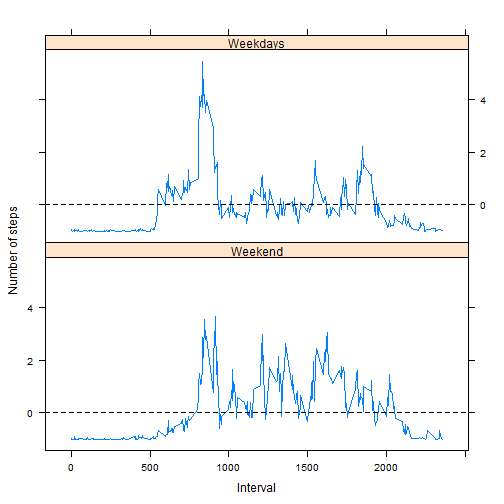
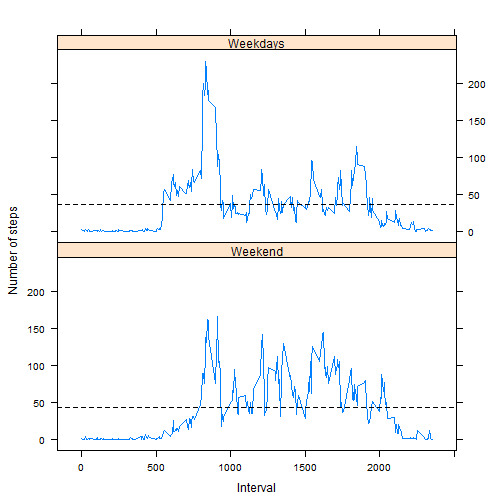
v1.1

diff --git a/PA1_template.html b/PA1_template.html
@@ -351,7 +351,7 @@ hist(x=steps.per.day.completed,
 
 <h2>Are there differences in activity patterns between weekdays and weekends?</h2>
 
-<p>Here we prepare a new &ldquo;steps per interval&rdquo; variable by adding weekend/weekday values to the series. <strong>Data are normalised against the average of the weekend/weekday values.</strong></p>
+<p>Here we prepare a new &ldquo;steps per interval&rdquo; variable by adding weekend/weekday values to the series. </p>
 
 <pre><code class="r">day &lt;- weekdays(strptime(data.completed$date, &quot;%Y-%m-%d&quot;))
 data.completed$weekday &lt;- factor(!(day %in% c(&quot;Saturday&quot;, &quot;Sunday&quot;)))
@@ -361,11 +361,11 @@ steps.per.interval&lt;-tapply(data.completed$steps,
                            list(data.completed$interval,data.completed$weekday),
                            FUN=mean)
 
-# normalisation of data
-steps.per.interval&lt;-(steps.per.interval-colMeans(steps.per.interval))/colMeans(steps.per.interval)
+# normalisation of data // this is a variant to display against the average but i find the result less straightforward
+# steps.per.interval&lt;-(steps.per.interval-colMeans(steps.per.interval))/colMeans(steps.per.interval)
 </code></pre>
 
-<p>Now, we draw the plot using the lattice plotting system. Dotted lines are drawn at 0 which corresponds to the mean value of each series.</p>
+<p>Now, we draw the plot using the lattice plotting system. Dotted lines correspond to the mean value of each series.</p>
 
 <pre><code class="r"># prepare the tmp variable for xyplot display
 tmp&lt;-melt(steps.per.interval, id=2:3)
@@ -378,11 +378,11 @@ xyplot(steps ~ interval | weekday, data = tmp,
        ylab=&quot;Number of steps&quot;,
        panel = function(x, y, ...) {
                 panel.xyplot(x, y,...) ## First call the default panel function for &#39;xyplot&#39;
-                panel.abline(h = 0, lty =2) ## Add a horizontal line at the avg value
+                panel.abline(h = mean(y), lty =2) ## Add a horizontal line at the avg value
                 })
 </code></pre>
 
[2 lines of base64/hex data omitted]
 
 </body>
 

diff --git a/PA1_template.md b/PA1_template.md
@@ -188,7 +188,7 @@ paste("Mean: ", mean(steps.per.day.completed))
 
 
 ## Are there differences in activity patterns between weekdays and weekends?
-Here we prepare a new "steps per interval" variable by adding weekend/weekday values to the series. **Data are normalised against the average of the weekend/weekday values.**
+Here we prepare a new "steps per interval" variable by adding weekend/weekday values to the series. 
 
 ```r
 day <- weekdays(strptime(data.completed$date, "%Y-%m-%d"))
@@ -199,11 +199,11 @@ steps.per.interval<-tapply(data.completed$steps,
                            list(data.completed$interval,data.completed$weekday),
                            FUN=mean)
 
-# normalisation of data
-steps.per.interval<-(steps.per.interval-colMeans(steps.per.interval))/colMeans(steps.per.interval)
+# normalisation of data // this is a variant to display against the average but i find the result less straightforward
+# steps.per.interval<-(steps.per.interval-colMeans(steps.per.interval))/colMeans(steps.per.interval)
 ```
 
-Now, we draw the plot using the lattice plotting system. Dotted lines are drawn at 0 which corresponds to the mean value of each series.
+Now, we draw the plot using the lattice plotting system. Dotted lines correspond to the mean value of each series.
 
 
 ```r
@@ -218,7 +218,7 @@ xyplot(steps ~ interval | weekday, data = tmp,
        ylab="Number of steps",
        panel = function(x, y, ...) {
                 panel.xyplot(x, y,...) ## First call the default panel function for 'xyplot'
-                panel.abline(h = 0, lty =2) ## Add a horizontal line at the avg value
+                panel.abline(h = mean(y), lty =2) ## Add a horizontal line at the avg value
                 })
 ```
 
